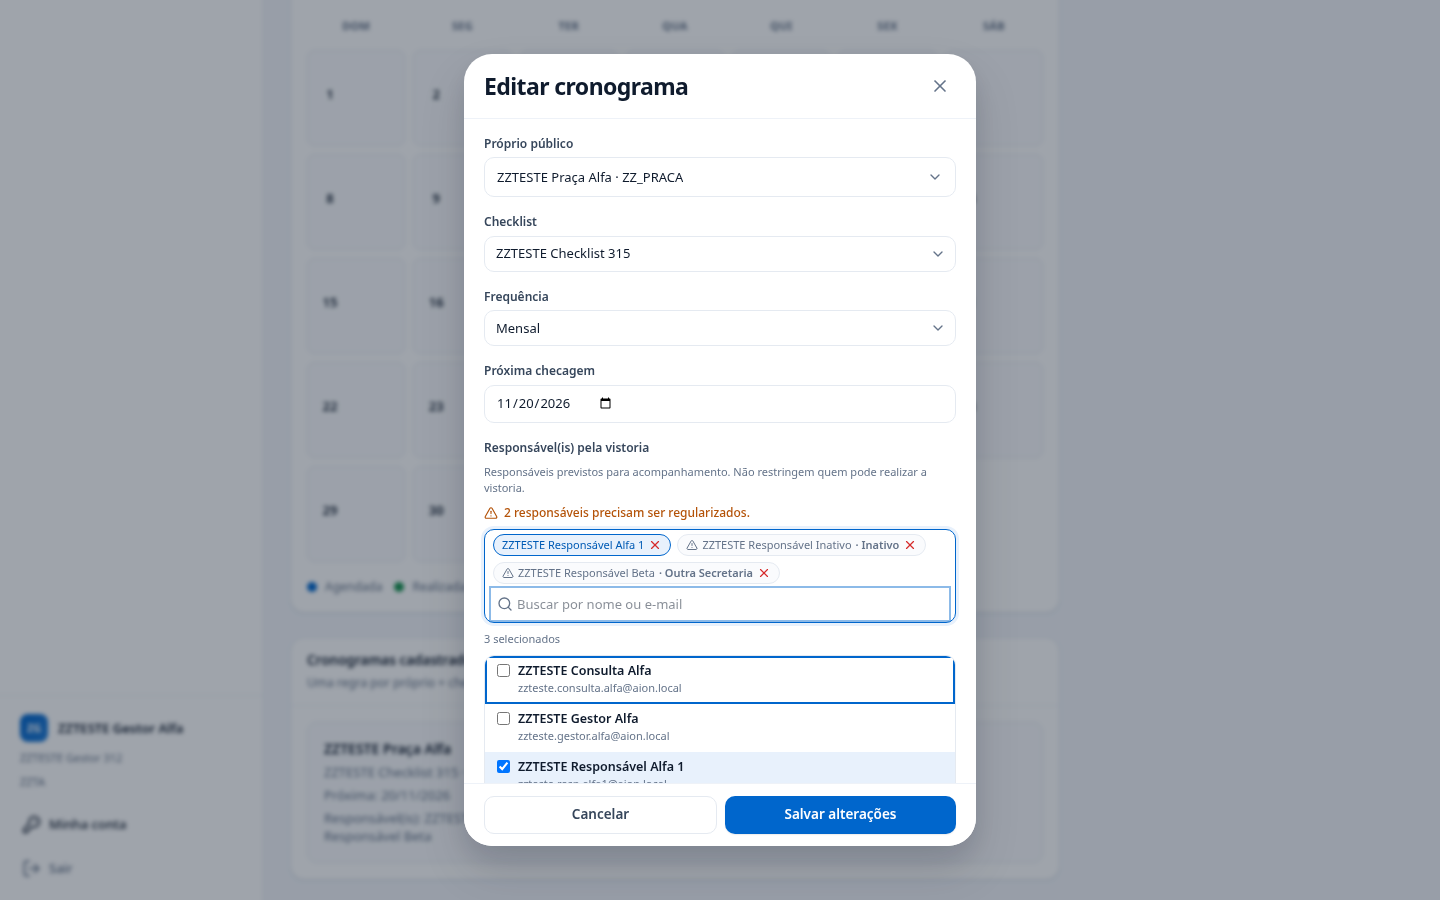
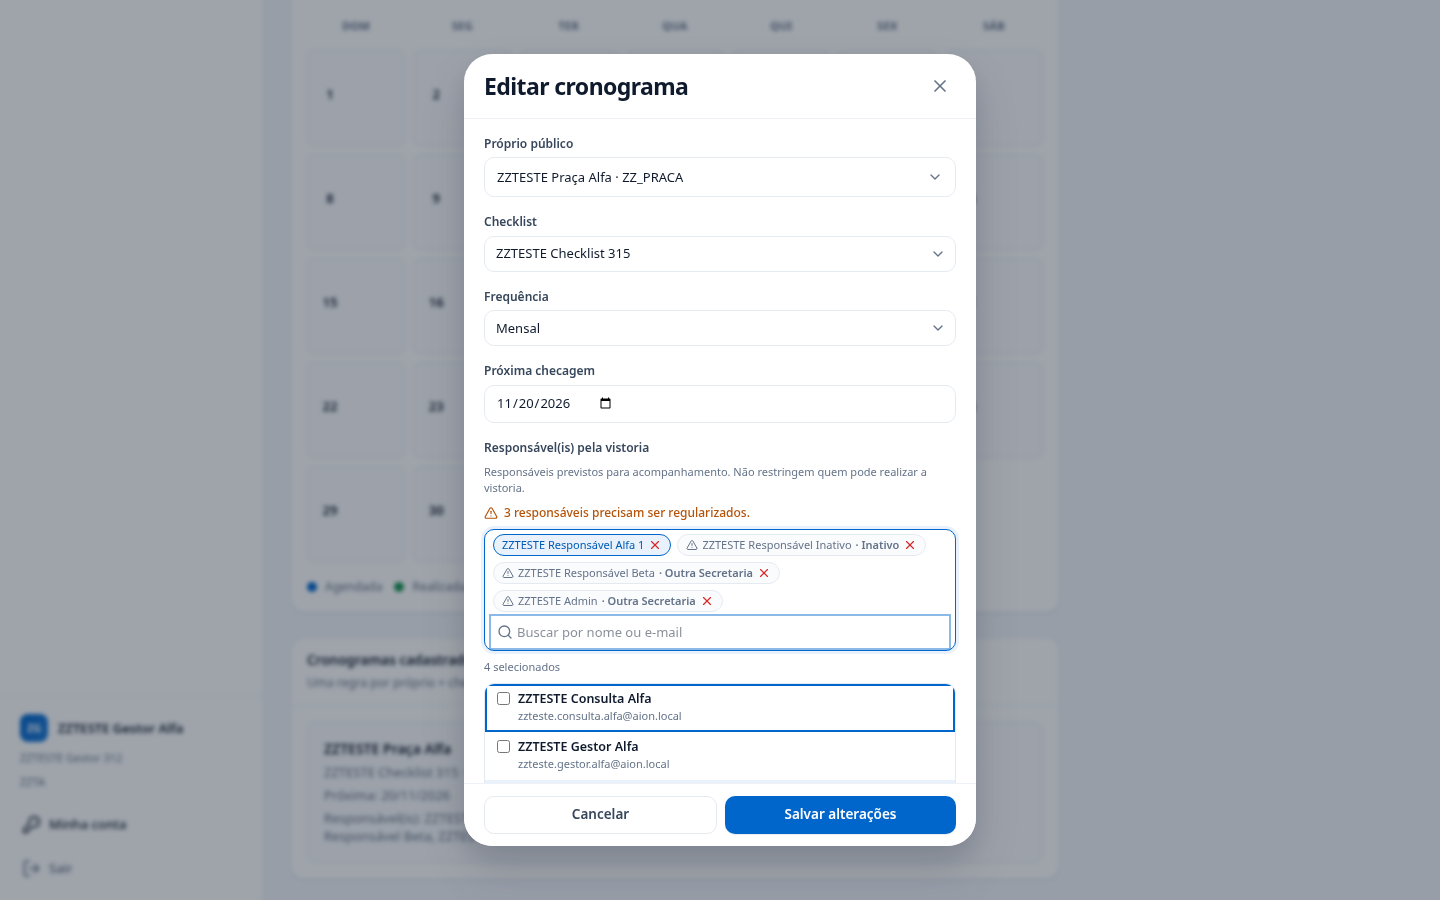
Cronograma · Responsáveis: admin global sem Secretaria fora das opções (decisão TL #46), atribuídos mantidos na edição

Changed region(s): [[0.3438, 0.6533, 0.6562, 0.8711]]

diff --git a/src/cronograma/responsaveis-cronograma.db.spec.ts b/src/cronograma/responsaveis-cronograma.db.spec.ts
@@ -96,6 +96,28 @@ describe.skipIf(!URL)('307 — responsáveis do cronograma no escopo (Postgres l
     expect(idsA).not.toContain(seed.usuarios.gestorB);
   });
 
+  it('TL #46: admin global sem Secretaria não é oferecido (nem em "Todas"); novo → 400; já atribuído continua na edição', async () => {
+    const admin = await sessao(seed.usuarios.admin);
+    const rows = await svc.listResponsaveisOpcoes(admin);
+    expect(rows.map((r) => r.id)).not.toContain(seed.usuarios.admin);
+    expect(rows.every((r) => r.secretarias.length > 0)).toBe(true);
+    expect(rows.filter(doSeed).map((r) => r.id)).toEqual(expect.arrayContaining([seed.usuarios.gestorA, seed.usuarios.gestorB, seed.usuarios.multi]));
+
+    const u = await sessao(seed.usuarios.gestorA);
+    await expect(svc.updateCronograma(cronogramaId, dtoA([seed.usuarios.gestorA, seed.usuarios.admin]), u)).rejects.toBeInstanceOf(BadRequestException);
+
+    // Já atribuído antes da regra (gravado direto): segue salvo e aparece na situação.
+    const ck2 = await prisma.checklist.create({ data: { nome: `Checklist Fictício TL46 ${randomBytes(4).toString('hex')}` } });
+    const legado = await prisma.cronogramaChecagem.create({
+      data: { unidadeId: seed.unidadeA, checklistId: ck2.id, frequencia: 'MENSAL', proximaChecagemEm: new Date(Date.UTC(2026, 11, 1)), observacoes: T307.observacao,
+        responsaveis: { create: [seed.usuarios.gestorA, seed.usuarios.admin].map((usuarioId) => ({ usuarioId })) } },
+    });
+    const r = await svc.updateCronograma(legado.id, { ...dtoA([seed.usuarios.gestorA, seed.usuarios.admin]), checklistId: ck2.id }, u);
+    expect(r.responsaveis.map((x) => x.usuarioId).sort()).toEqual([seed.usuarios.gestorA, seed.usuarios.admin].sort());
+    const sit = await svc.situacaoResponsaveis(u, [seed.usuarios.admin]);
+    expect(sit.map((s) => s.id)).toEqual([seed.usuarios.admin]);
+  });
+
   it('R4: situação no escopo de A → gestor A OK, inativo INATIVO, gestor B OUTRA_SECRETARIA (sem expor Secretarias de B)', async () => {
     const u = await sessao(seed.usuarios.gestorA);
     const sit = await svc.situacaoResponsaveis(u, [seed.usuarios.gestorA, seed.inativo, seed.usuarios.gestorB]);

diff --git a/src/cronograma/cronograma.service.ts b/src/cronograma/cronograma.service.ts
@@ -13,6 +13,8 @@ import {
   usuarioResponsavelSelect,
   whereUsuarioNoEscopo,
   situacaoResponsavel,
+  secretariasDoUsuario,
+  whereUsuarioComSecretaria,
 } from './responsaveis-escopo';
 import { checklistAppliesToUnidade } from '../checklists/checklist-matching';
 import { PrismaService } from '../prisma/prisma.service';
@@ -142,6 +144,7 @@ export class CronogramaService {
         ativo: true,
         AND: [
           whereUsuarioNoEscopo(scopeIds),
+          whereUsuarioComSecretaria,
           ...(q
             ? [{ OR: [{ nome: { contains: q, mode: 'insensitive' as const } }, { email: { contains: q, mode: 'insensitive' as const } }] }]
             : []),
@@ -683,6 +686,9 @@ export class CronogramaService {
     });
     if (users.length !== novos.length || users.some((u) => !u.ativo)) {
       throw new BadRequestException('Um ou mais responsaveis sao invalidos ou inativos.');
+    }
+    if (users.some((u) => secretariasDoUsuario(u).length === 0)) {
+      throw new BadRequestException('Usuario sem Secretaria nao pode ser atribuido como responsavel.');
     }
     if (users.some((u) => situacaoResponsavel(u, scopeIds) === 'OUTRA_SECRETARIA')) {
       throw new ForbiddenException('Responsavel fora da Secretaria ativa. Remova ou substitua os responsaveis destacados para salvar.');

diff --git a/frontend/components/cronograma/responsaveis-combobox.interacao.spec.ts b/frontend/components/cronograma/responsaveis-combobox.interacao.spec.ts
@@ -120,4 +120,15 @@ describe('Cronograma · Responsáveis (combobox, comportamento real)', () => {
     expect(screen.getAllByRole('option')).toHaveLength(1);
     expect(screen.queryByRole('option', { name: /ZZTESTE Bia/ })).toBeNull();
   });
+  it('TL #46: admin global sem Secretaria não está nas opções nem há grupo "Sem Secretaria"; se já atribuído, o chip continua na edição', async () => {
+    const adminGlobal = { ...u('admg', 'ZZTESTE Admin Global', []), secretaria: null };
+    listMock.mockResolvedValue([ANA, MULTI, BIA]); // backend já exclui o admin global
+    render(createElement(Harness, { todas: true, ids: ['admg'], users: [adminGlobal], situacoes: { admg: 'OK' } }));
+    expect(screen.getAllByTestId('chip-responsavel').map((c) => c.textContent)).toEqual([expect.stringContaining('ZZTESTE Admin Global')]);
+    await abrir();
+    expect(screen.getAllByRole('group').map((g) => g.getAttribute('aria-label'))).toEqual(['ZZTA', 'ZZTB']);
+    expect(screen.queryByRole('option', { name: /Admin Global/ })).toBeNull();
+    fireEvent.click(screen.getByRole('option', { name: /ZZTESTE Ana/ }));
+    expect(mudancas.at(-1)).toEqual(['admg', 'ana']);
+  });
 });

diff --git a/src/cronograma/responsaveis-escopo.ts b/src/cronograma/responsaveis-escopo.ts
@@ -30,6 +30,14 @@ export function whereUsuarioNoEscopo(ids: string[] | undefined): Prisma.UsuarioW
   };
 }
 
+/**
+ * Decisão do TL (PR #46): usuário global sem Secretaria (nem principal nem vínculo) não é oferecido como responsável.
+ * Vale só para NOVAS escolhas; quem já está atribuído continua aparecendo na edição.
+ */
+export const whereUsuarioComSecretaria: Prisma.UsuarioWhereInput = {
+  OR: [{ secretariaId: { not: null } }, { secretariasVinculos: { some: {} } }],
+};
+
 /** Secretarias do usuário (principal + vínculos), sem repetir, ordenadas por sigla. */
 export function secretariasDoUsuario(u: Pick<UsuarioResponsavelRow, 'secretaria' | 'secretariasVinculos'>): SecretariaResumo[] {
   const mapa = new Map<string, SecretariaResumo>();

diff --git a/docs/evidencias/cronograma-responsaveis/README.md b/docs/evidencias/cronograma-responsaveis/README.md
@@ -9,8 +9,15 @@ Ambiente local `_test` (Postgres embarcado, banco `gestop_resp_test`), dados sin
 | Fecha com clique fora / Esc / clique no campo | `log.json` (`esc`, `cliqueFora`); Esc fecha só a lista, o modal continua; `desktop-2`, `mobile-2` |
 | Multisseleção mantida | marcar 2 mantém a lista aberta e cria 2 chips (`aposMarcar2`) |
 | Usuários filtrados no backend pela Secretaria ativa (inclui vínculo múltiplo) | gestor ZZTA vê Alfa 1–9, gestor, consulta e **Multi (A+B)**; não vê Beta nem o Inativo |
-| "Todas as Secretarias" conforme autorização, sem duplicar | `desktop-4`: admin vê grupos ZZTA/ZZTB (+ "Sem Secretaria" para o próprio admin global); Multi aparece 1 vez com "ZZTA, ZZTB" |
+| "Todas as Secretarias" conforme autorização, sem duplicar | `desktop-4`: admin vê só os grupos ZZTA/ZZTB; Multi aparece 1 vez com "ZZTA, ZZTB" |
 | Edição preserva inativos/outra Secretaria com indicação | `desktop-3`: chips "Inativo" e "Outra Secretaria" + aviso "2 responsáveis precisam ser regularizados."; opções novas não incluem Beta/Inativo |
 | Sem novas atribuições inválidas | backend: novo de outra Secretaria → 403, novo inativo → 400 (`src/cronograma/responsaveis-cronograma.db.spec.ts`, 12/12 em Postgres local) |
 
 Testes de interação (jsdom + Testing Library, comportamento real do componente): `frontend/components/cronograma/responsaveis-combobox.interacao.spec.ts` (7 casos).
+
+## Decisão do TL no PR #46: admin global sem Secretaria fora das opções
+
+- Backend (`listResponsaveisOpcoes`): só oferece usuários com Secretaria principal ou vínculo (`whereUsuarioComSecretaria`). O grupo "Sem Secretaria" sumiu (`desktop-4`, `log.json → adminTodas.grupos = ["ZZTA","ZZTB"]`).
+- Atribuição NOVA de usuário sem Secretaria → 400 (mesma regra do inativo).
+- Já atribuído continua: o cronograma sintético recebeu `zzteste.admin` direto no banco; na edição o chip aparece com indicação "Outra Secretaria" para o gestor ZZTA (`desktop-3`) e salvar mantendo-o funciona (teste de banco).
+- Testes: `responsaveis-cronograma.db.spec.ts` (novo caso, 13/13 no Postgres local) e `responsaveis-combobox.interacao.spec.ts` (novo caso, 8/8).
